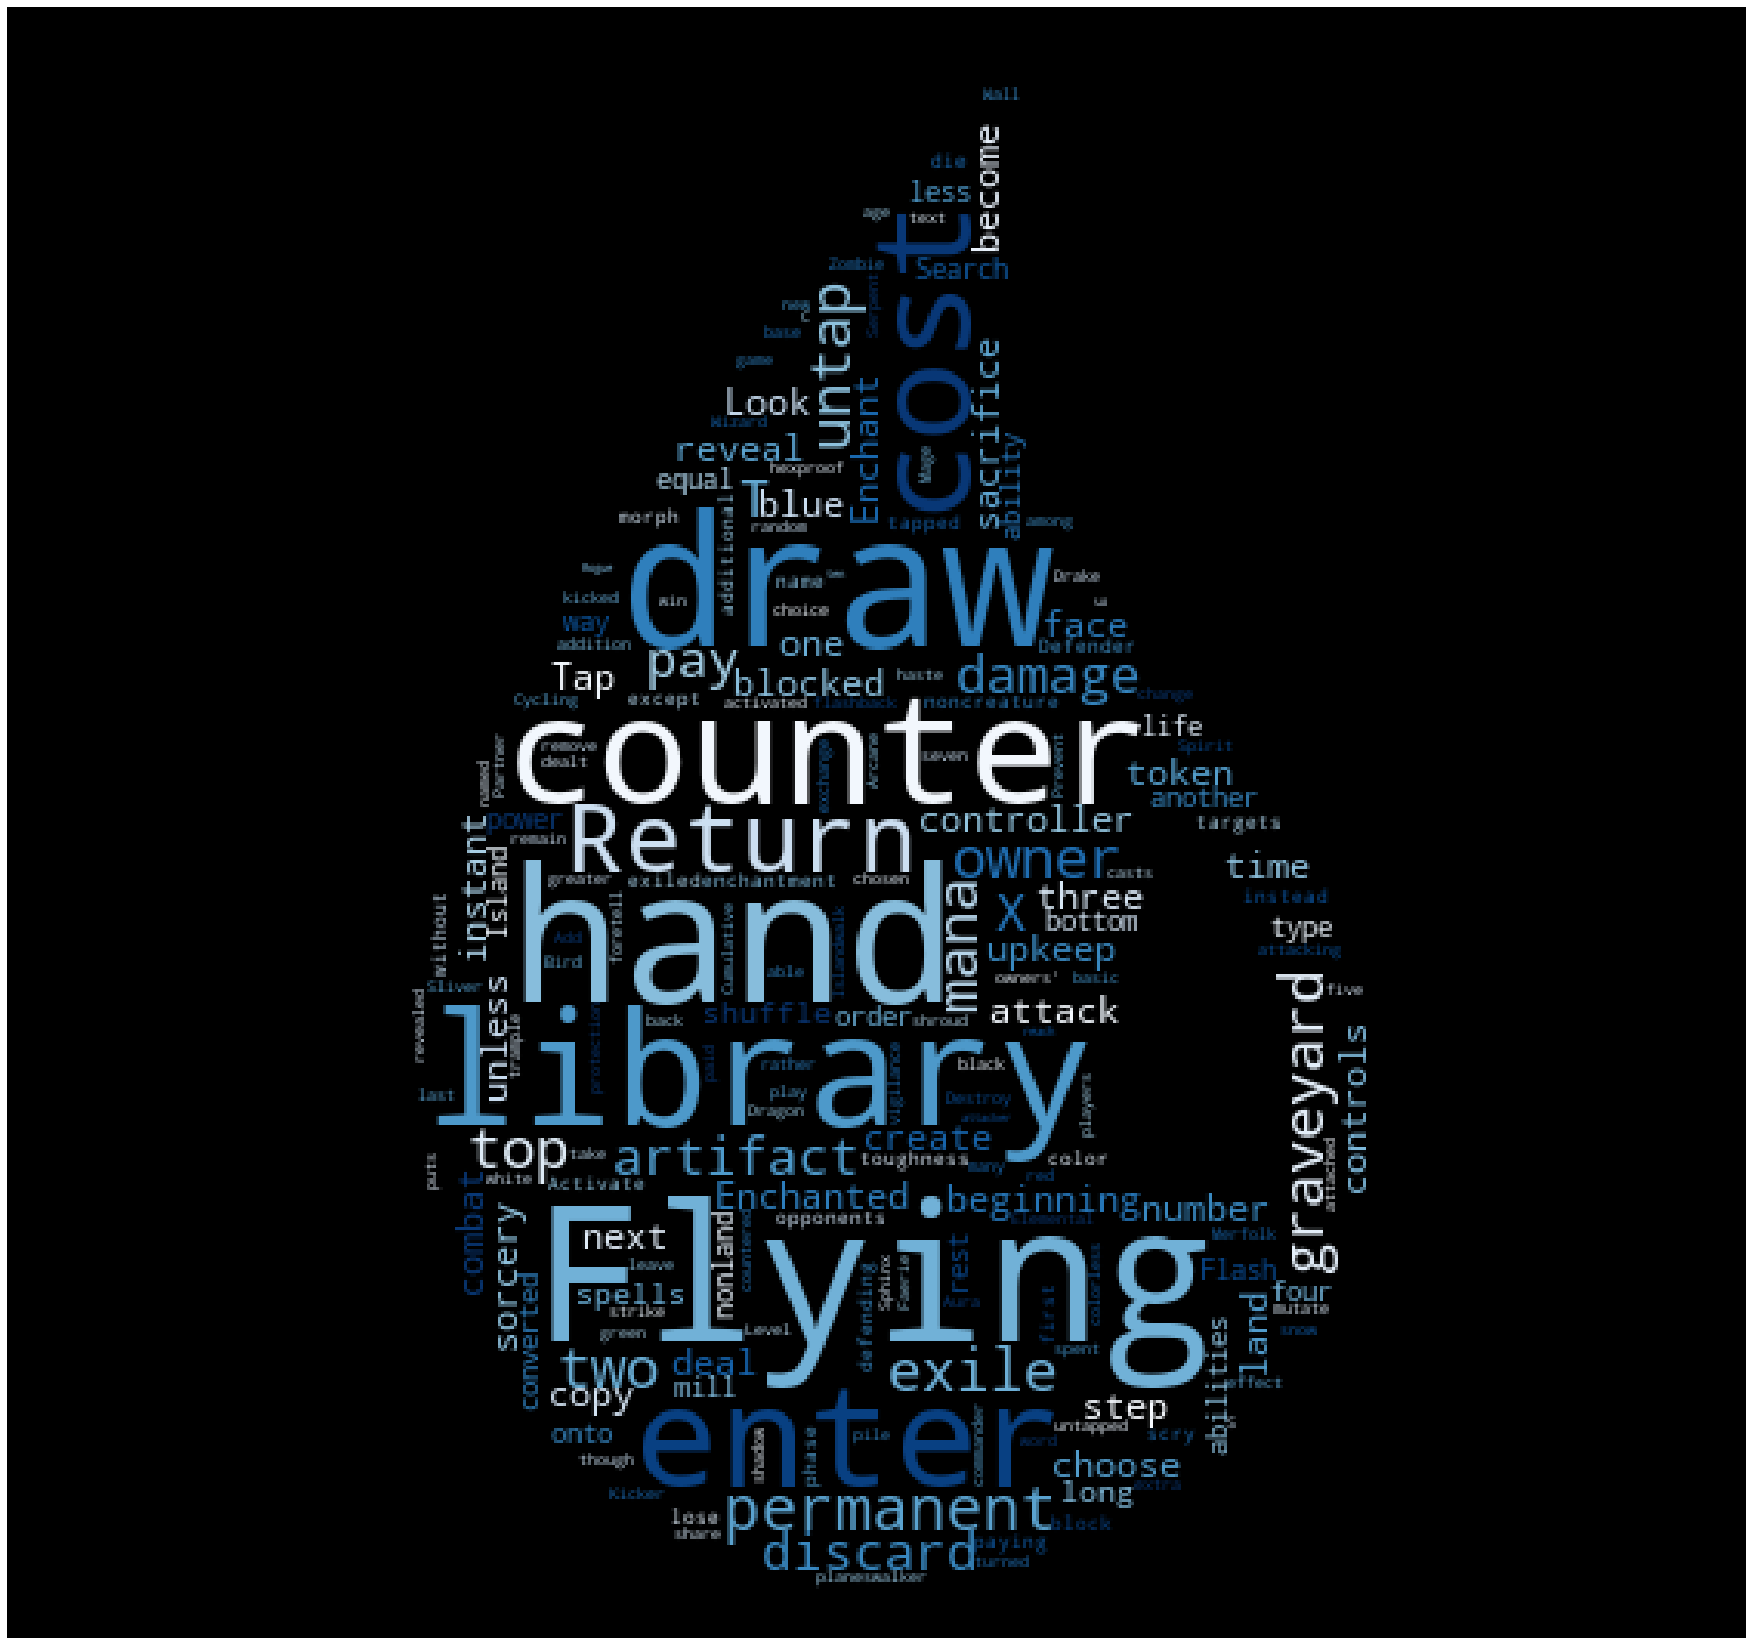
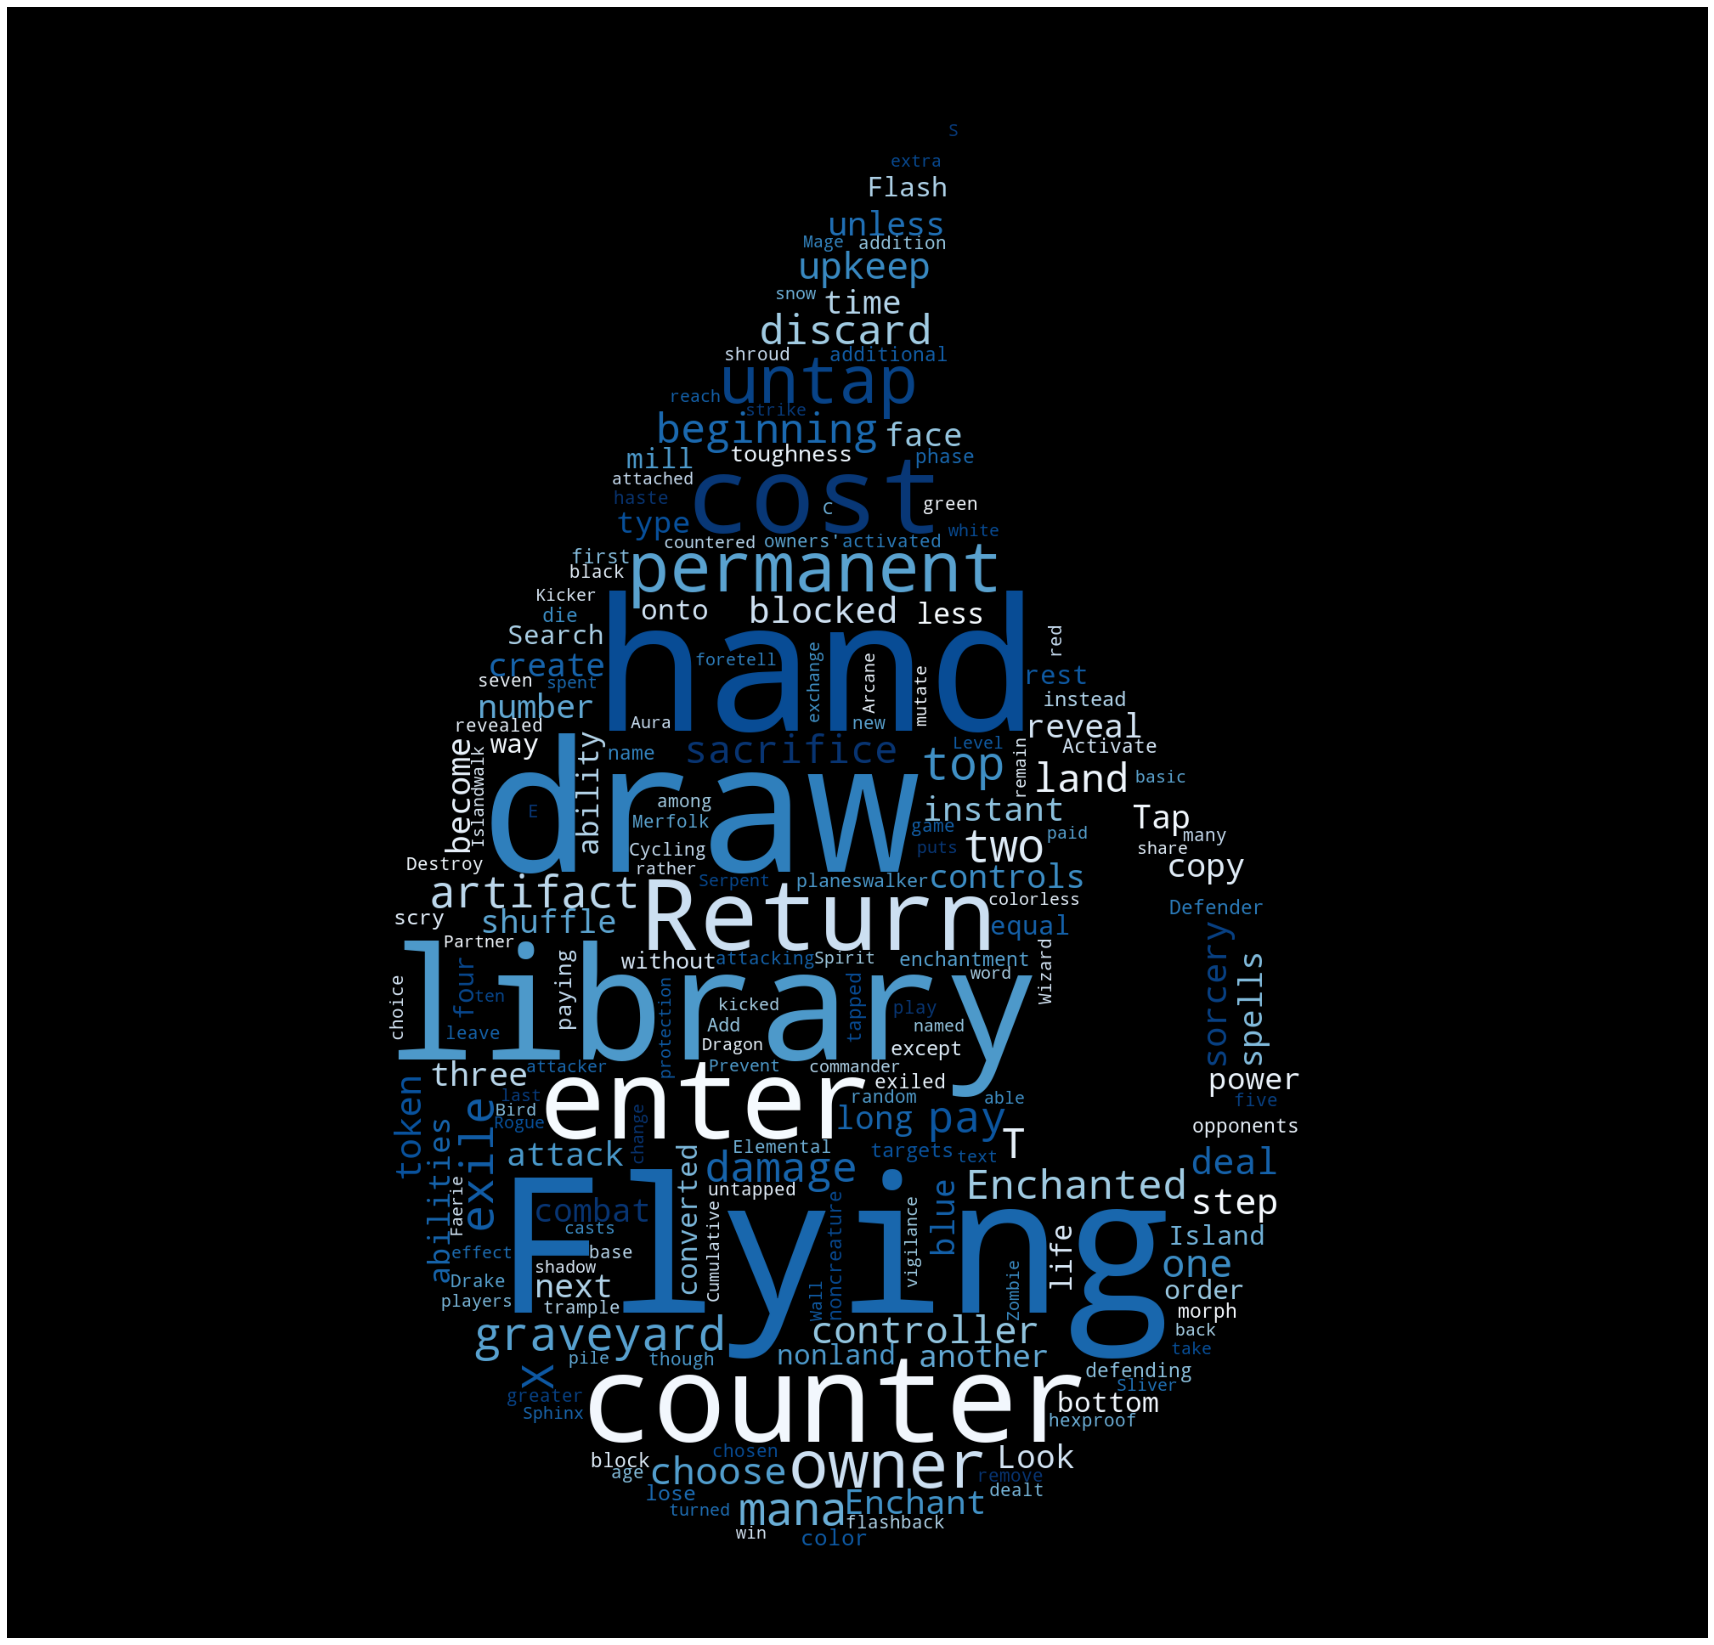
Add files via upload

Changed region(s): [[0.2165, 0.031, 0.804, 0.9611]]

diff --git a/mtgColorWordClouds.py b/mtgColorWordClouds.py
@@ -16,17 +16,18 @@ import numpy as np
 from PIL import Image
 
 
+
 WHITE = 'W'
 RED = 'R'
 GREEN = 'G'
 BLUE = 'U'
 BLACK = 'B'
 
-white_mask = np.array(Image.open('mana_symbol_masks/mana_symbol_w.png'))
-red_mask   = np.array(Image.open('mana_symbol_masks/mana_symbol_r.png'))
-green_mask = np.array(Image.open('mana_symbol_masks/mana_symbol_g.png'))
-blue_mask  = np.array(Image.open('mana_symbol_masks/mana_symbol_u.png'))
-black_mask = np.array(Image.open('mana_symbol_masks/mana_symbol_b.png'))
+white_mask = np.array(Image.open('mana_symbol_masks/mana_symbol_w_lg.png'))
+red_mask   = np.array(Image.open('mana_symbol_masks/mana_symbol_r_lg.png'))
+green_mask = np.array(Image.open('mana_symbol_masks/mana_symbol_g_lg.png'))
+blue_mask  = np.array(Image.open('mana_symbol_masks/mana_symbol_u_lg.png'))
+black_mask = np.array(Image.open('mana_symbol_masks/mana_symbol_b_lg.png'))
 
 #Wordcloud color schemes for each mtg color 
 #List of all colormaps: https://matplotlib.org/stable/tutorials/colors/colormaps.html
